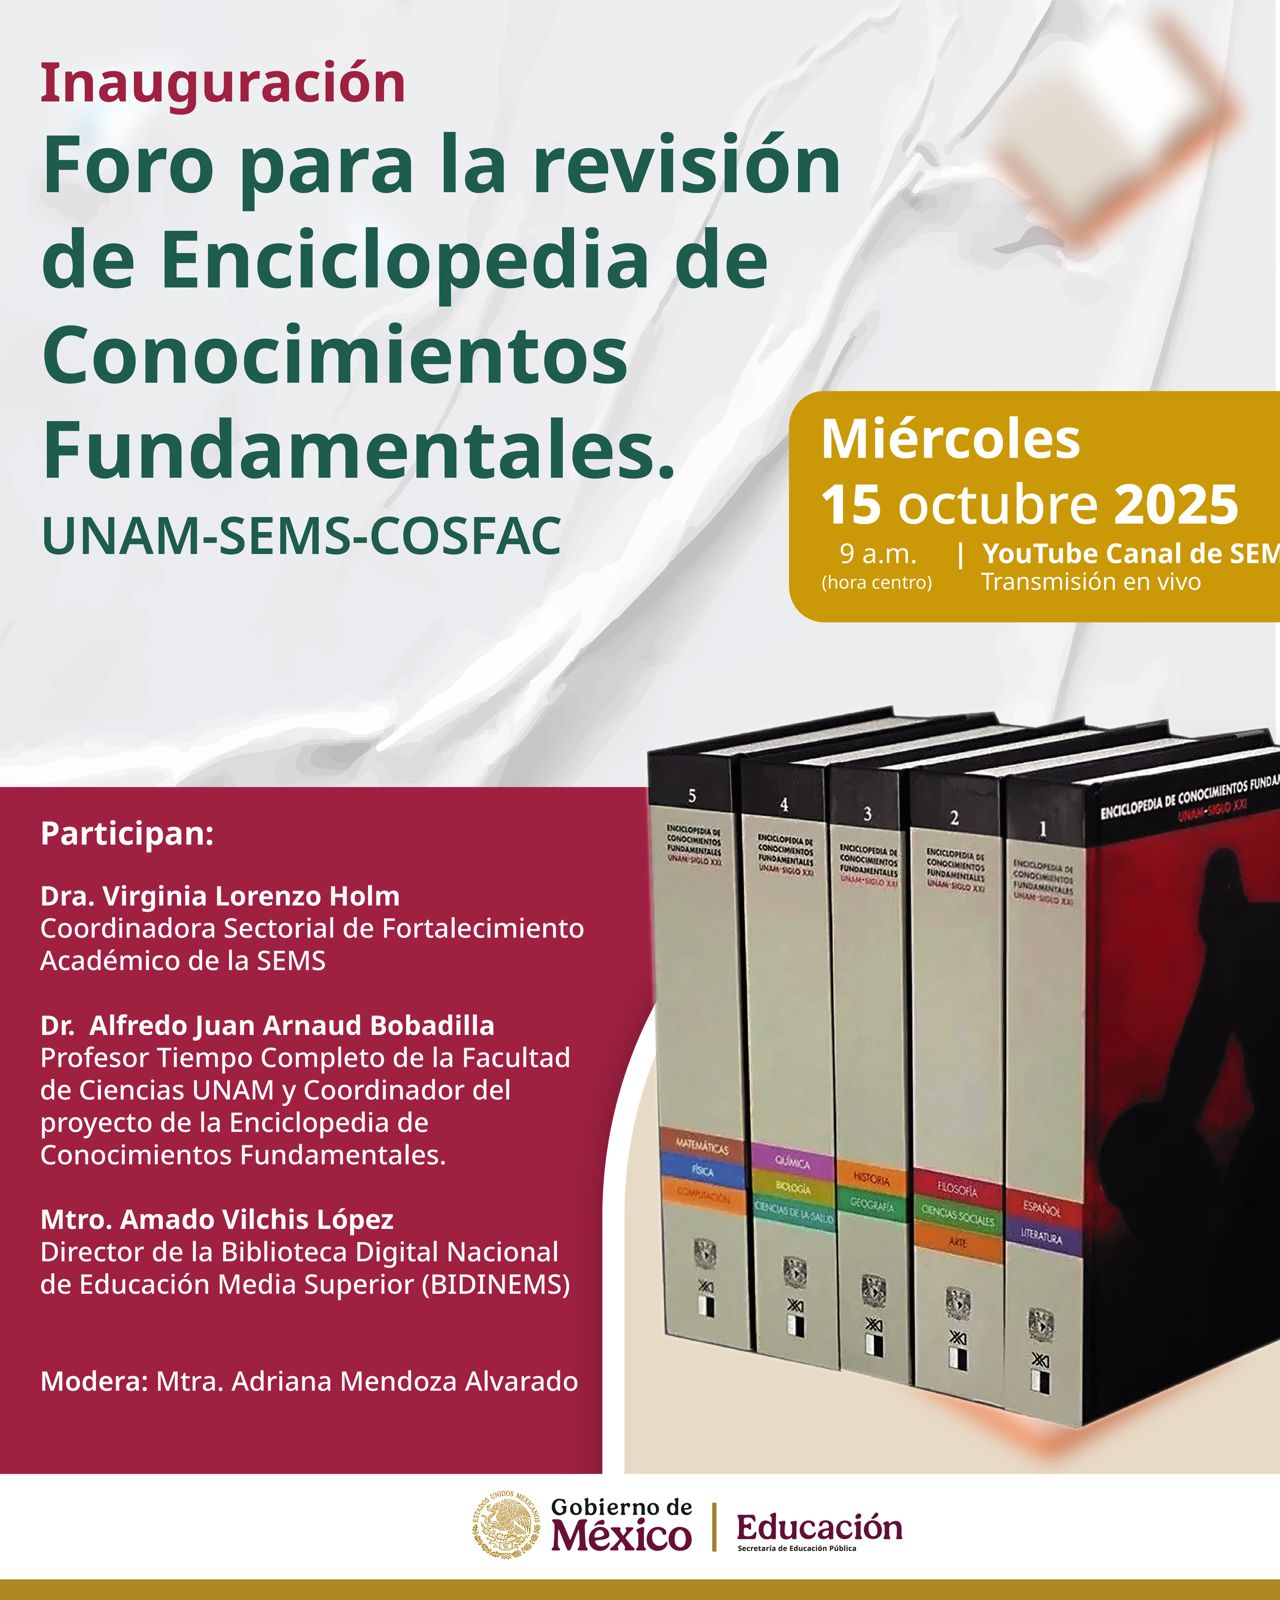
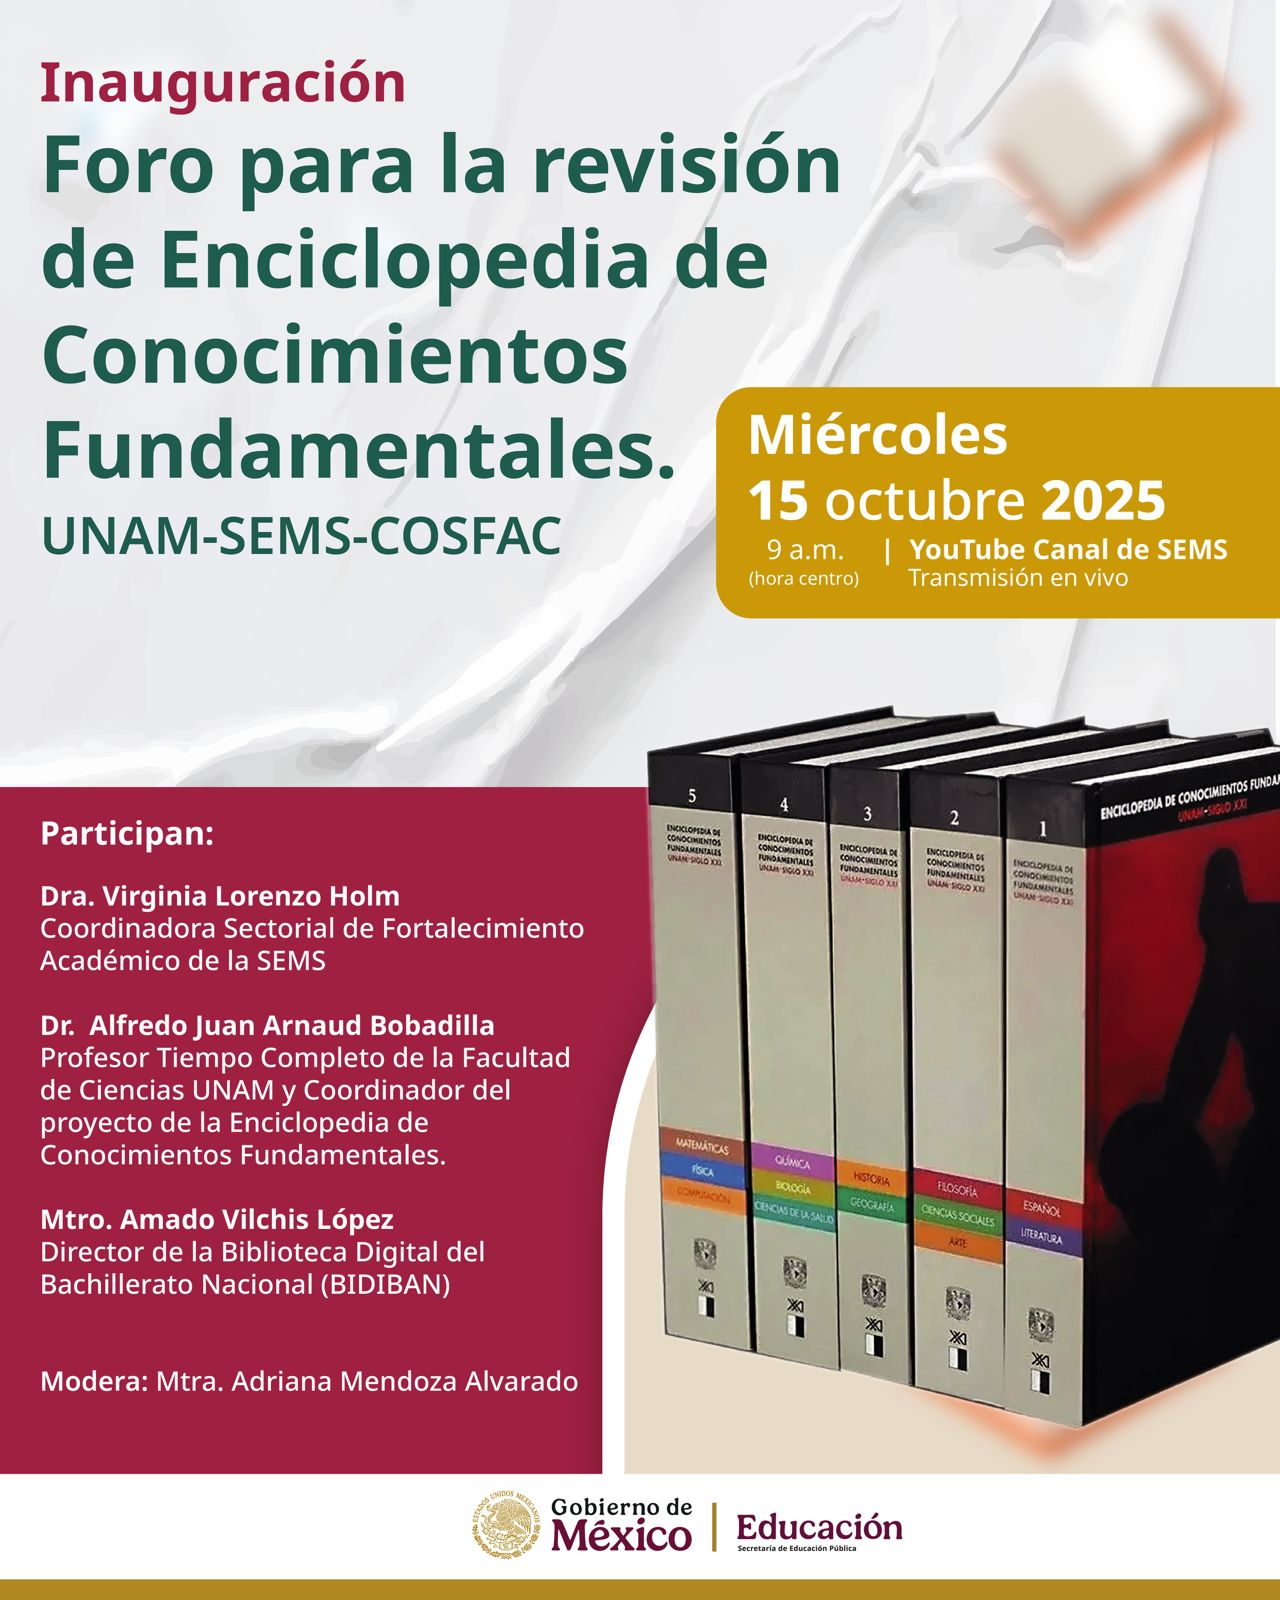
cambio imagen carrusel

Changed region(s): [[0.5312, 0.2188, 1.0, 0.4062], [0.0312, 0.7812, 0.4375, 0.8125]]

diff --git a/css/styles.css b/css/styles.css
@@ -1264,7 +1264,7 @@ h2{
 /* Responsive logos mas chicos en mobil */
 @media (max-width: 576px) {
 .carousel-inner {
-  height: 61vh;
+  height: 58vh;
   overflow: hidden;
 }
 
